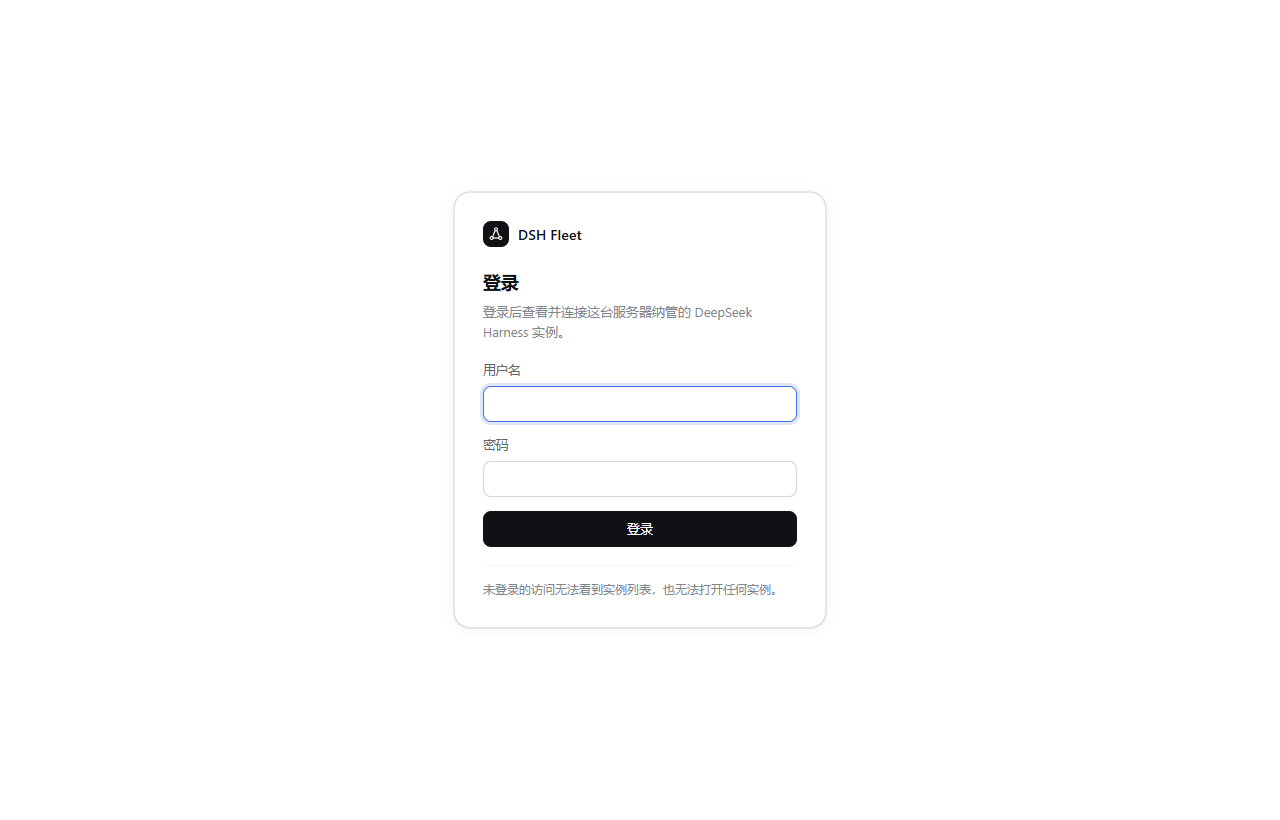
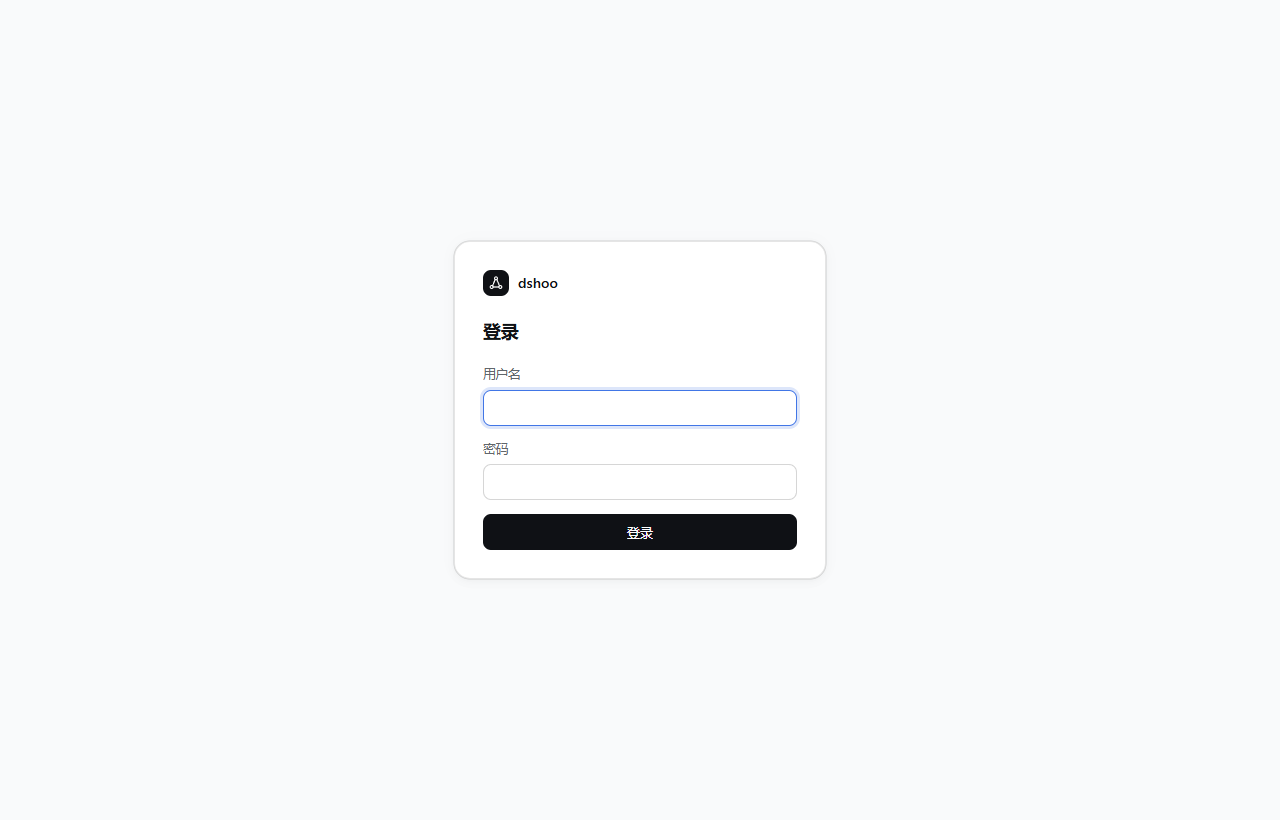
ui: rename to dshoo, use the harness sidebar grey, three-line instance rows
The login page drops its grey explainer lines, the instance list shows the
name, system and harness version on separate lines with the status dot on
the name, and the stage header actions become icons.

Changed region(s): [[0.375, 0.2744, 0.625, 0.5793], [0.375, 0.6098, 0.625, 0.6707], [0.375, 0.7012, 0.625, 0.7317]]

diff --git a/src/server/internal/web/ui/style.css b/src/server/internal/web/ui/style.css
@@ -7,6 +7,8 @@
   color-scheme: light;
 
   --bg: #fff;
+  /* The harness sidebar grey, sampled from a running GUI (rgb(249,250,251)). */
+  --sidebar-bg: #f9fafb;
   --layer-1: #fff;
   --layer-2: #fff;
   --layer-3: #fff;
@@ -51,6 +53,8 @@
     color-scheme: dark;
 
     --bg: #151517;
+    /* The harness sidebar grey in dark mode (rgb(27,27,28)). */
+    --sidebar-bg: #1b1b1c;
     --layer-1: #232324;
     --layer-2: #2c2c2e;
     --layer-3: #353638;
@@ -190,17 +194,20 @@ h1, h2, h3, p { margin: 0; }
 .icon-btn {
   display: inline-grid;
   place-items: center;
-  width: 26px;
-  height: 26px;
+  width: 28px;
+  height: 28px;
   padding: 0;
   color: var(--label-3);
   background: transparent;
   border: 0;
   border-radius: var(--radius-sm);
   cursor: pointer;
+  text-decoration: none;
+  transition: background 0.12s ease, color 0.12s ease;
 }
 
-.icon-btn:hover { background: var(--hover); color: var(--label-1); }
+.icon-btn:hover { background: var(--hover); color: var(--label-1); text-decoration: none; }
+.icon-btn:focus-visible { outline: 2px solid var(--business); outline-offset: 1px; }
 
 .field { display: flex; flex-direction: column; gap: 6px; min-width: 0; }
 
@@ -259,13 +266,13 @@ h1, h2, h3, p { margin: 0; }
   display: grid;
   place-items: center;
   padding: 40px 20px;
-  background: var(--bg);
+  background: var(--sidebar-bg);
 }
 
 .auth-card {
   width: min(372px, 100%);
   padding: 28px;
-  background: var(--layer-1);
+  background: var(--bg);
   border: 0.5px solid var(--border-2);
   border-radius: var(--radius-lg);
   box-shadow: var(--panel-shadow);
@@ -303,7 +310,7 @@ h1, h2, h3, p { margin: 0; }
   min-height: 0;
   padding: 12px 8px 8px;
   border-right: 0.5px solid var(--border-1);
-  background: var(--bg);
+  background: var(--sidebar-bg);
 }
 
 .sidebar-head {
@@ -337,13 +344,13 @@ h1, h2, h3, p { margin: 0; }
   padding: 2px 0;
 }
 
+/* One instance: three lines of detail, with the status dot aligned to the name. */
 .row {
   display: flex;
-  align-items: center;
+  align-items: flex-start;
   gap: 8px;
   width: 100%;
-  height: 34px;
-  padding: 0 8px;
+  padding: 7px 8px;
   flex: none;
   color: var(--label-1);
   background: transparent;
@@ -356,13 +363,40 @@ h1, h2, h3, p { margin: 0; }
 
 .row:hover { background: var(--hover); }
 .row[aria-current="true"] { background: var(--hover); }
-.row .name { flex: 1 1 auto; min-width: 0; overflow: hidden; text-overflow: ellipsis; white-space: nowrap; }
-.row .meta { flex: none; font-size: 11.5px; color: var(--label-3); }
+
+.row .dot { margin-top: 6px; }
+
+.row .lines {
+  flex: 1 1 auto;
+  min-width: 0;
+  display: flex;
+  flex-direction: column;
+  gap: 1px;
+}
+
+.row .name {
+  font-size: 13.5px;
+  line-height: 18px;
+  overflow: hidden;
+  text-overflow: ellipsis;
+  white-space: nowrap;
+}
+
+.row .sub {
+  font-size: 11.5px;
+  line-height: 16px;
+  color: var(--label-3);
+  overflow: hidden;
+  text-overflow: ellipsis;
+  white-space: nowrap;
+}
+
 .row .remove {
   display: none;
   flex: none;
   width: 20px;
   height: 20px;
+  margin-top: 1px;
   color: var(--label-3);
   background: transparent;
   border: 0;

diff --git a/src/server/internal/web/ui/app.html b/src/server/internal/web/ui/app.html
@@ -4,7 +4,7 @@
     <meta charset="utf-8" />
     <meta name="viewport" content="width=device-width, initial-scale=1" />
     <meta name="robots" content="noindex" />
-    <title>DSH Fleet</title>
+    <title>dshoo</title>
     <link rel="stylesheet" href="/static/style.css" />
     <link rel="icon" href="/static/favicon.svg" type="image/svg+xml" />
   </head>
@@ -21,7 +21,7 @@
                 <path d="M10.6 6.9 6.9 16.2M13.4 6.9l3.7 9.3M7.6 18h8.8" />
               </svg>
             </span>
-            DSH Fleet
+            dshoo
           </span>
           <span class="spacer"></span>
           <button class="icon-btn" id="refresh" type="button" title="刷新实例列表" aria-label="刷新实例列表">
@@ -52,8 +52,17 @@
           <span class="title" id="title"></span>
           <span class="meta" id="meta"></span>
           <span class="spacer"></span>
-          <button class="btn" id="reload" type="button">刷新</button>
-          <a class="btn" id="popout" href="#" target="_blank" rel="noopener">新窗口打开</a>
+          <button class="icon-btn" id="reload" type="button" title="重新加载实例页面" aria-label="重新加载实例页面">
+            <svg width="15" height="15" viewBox="0 0 24 24" fill="none" stroke="currentColor" stroke-width="2"
+                 stroke-linecap="round" stroke-linejoin="round"><path d="M21 12a9 9 0 1 1-2.6-6.4M21 3v6h-6" /></svg>
+          </button>
+          <a class="icon-btn" id="popout" href="#" target="_blank" rel="noopener"
+             title="在新窗口打开" aria-label="在新窗口打开">
+            <svg width="15" height="15" viewBox="0 0 24 24" fill="none" stroke="currentColor" stroke-width="2"
+                 stroke-linecap="round" stroke-linejoin="round">
+              <path d="M14 4h6v6M20 4l-9 9M19 14v5a1 1 0 0 1-1 1H5a1 1 0 0 1-1-1V6a1 1 0 0 1 1-1h5" />
+            </svg>
+          </a>
         </header>
         <div class="stage" id="stage">
           <div class="empty" id="empty">

diff --git a/src/server/internal/web/ui/app.js b/src/server/internal/web/ui/app.js
@@ -55,17 +55,6 @@ async function api(path, options) {
   return body;
 }
 
-function relativeTime(iso) {
-  if (!iso) return "";
-  const then = Date.parse(iso);
-  if (!Number.isFinite(then)) return "";
-  const seconds = Math.max(0, Math.floor((Date.now() - then) / 1000));
-  if (seconds < 45) return "刚刚";
-  if (seconds < 3600) return `${Math.floor(seconds / 60)} 分钟前`;
-  if (seconds < 86400) return `${Math.floor(seconds / 3600)} 小时前`;
-  return `${Math.floor(seconds / 86400)} 天前`;
-}
-
 function platformLabel(item) {
   const bits = [item.os, item.arch].filter(Boolean);
   return bits.join("/") || "";
@@ -100,16 +89,29 @@ function renderList() {
 
     const dot = document.createElement("span");
     dot.className = "dot" + (item.online ? " on" : "");
+    dot.title = item.online ? "在线" : "离线";
+
+    // Three detail lines: name, system, harness version. The dot sits on the
+    // name's line, not centred over the block.
+    const lines = document.createElement("span");
+    lines.className = "lines";
 
     const name = document.createElement("span");
     name.className = "name";
     name.textContent = item.name;
+    lines.append(name);
 
-    const meta = document.createElement("span");
-    meta.className = "meta";
-    meta.textContent = item.online ? "" : relativeTime(item.lastSeen);
+    const system = document.createElement("span");
+    system.className = "sub";
+    system.textContent = platformLabel(item) || "系统未知";
+    lines.append(system);
 
-    row.append(dot, name, meta);
+    const version = document.createElement("span");
+    version.className = "sub";
+    version.textContent = item.dshVersion ? `dsh ${item.dshVersion}` : "dsh 版本未知";
+    lines.append(version);
+
+    row.append(dot, lines);
 
     if (!item.online) {
       const remove = document.createElement("button");

diff --git a/src/server/internal/web/ui/login.html b/src/server/internal/web/ui/login.html
@@ -4,7 +4,7 @@
     <meta charset="utf-8" />
     <meta name="viewport" content="width=device-width, initial-scale=1" />
     <meta name="robots" content="noindex" />
-    <title>登录 · DSH Fleet</title>
+    <title>登录 · dshoo</title>
     <link rel="stylesheet" href="/static/style.css" />
     <link rel="icon" href="/static/favicon.svg" type="image/svg+xml" />
   </head>
@@ -19,12 +19,11 @@
             <path d="M10.6 6.9 6.9 16.2M13.4 6.9l3.7 9.3M7.6 18h8.8" />
           </svg>
         </span>
-        DSH Fleet
+        dshoo
       </span>
 
       <div class="auth-head">
         <h1>登录</h1>
-        <p>登录后查看并连接这台服务器纳管的 DeepSeek Harness 实例。</p>
       </div>
 
       <p class="alert" id="alert" role="alert"></p>
@@ -42,10 +41,6 @@
         </div>
         <button class="btn btn-primary btn-block" type="submit">登录</button>
       </form>
-
-      <p class="auth-foot">
-        未登录的访问无法看到实例列表，也无法打开任何实例。
-      </p>
     </main>
     <script src="/static/auth.js"></script>
   </body>

diff --git a/src/server/internal/web/ui/setup.html b/src/server/internal/web/ui/setup.html
@@ -4,7 +4,7 @@
     <meta charset="utf-8" />
     <meta name="viewport" content="width=device-width, initial-scale=1" />
     <meta name="robots" content="noindex" />
-    <title>初始化 · DSH Fleet</title>
+    <title>初始化 · dshoo</title>
     <link rel="stylesheet" href="/static/style.css" />
     <link rel="icon" href="/static/favicon.svg" type="image/svg+xml" />
   </head>
@@ -19,7 +19,7 @@
             <path d="M10.6 6.9 6.9 16.2M13.4 6.9l3.7 9.3M7.6 18h8.8" />
           </svg>
         </span>
-        DSH Fleet
+        dshoo
       </span>
 
       <div class="auth-head">
